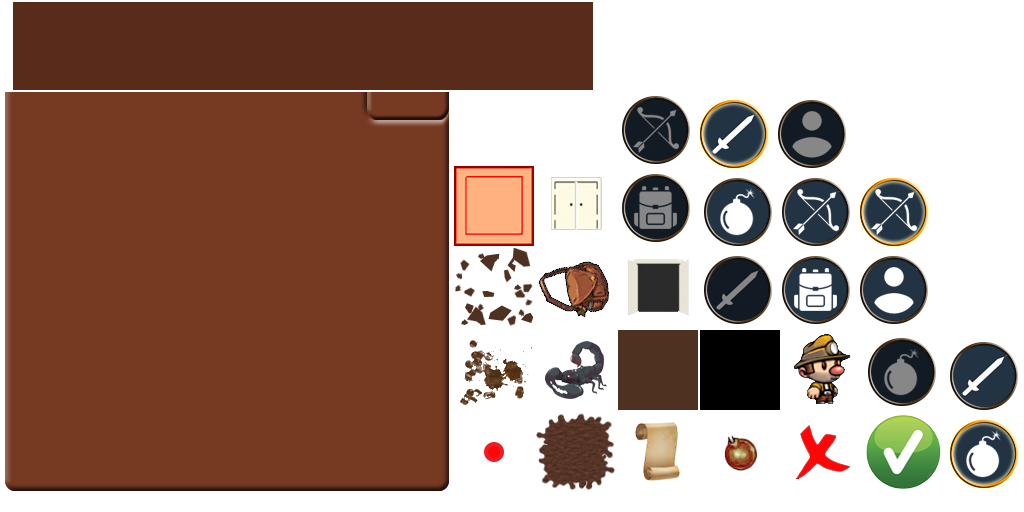
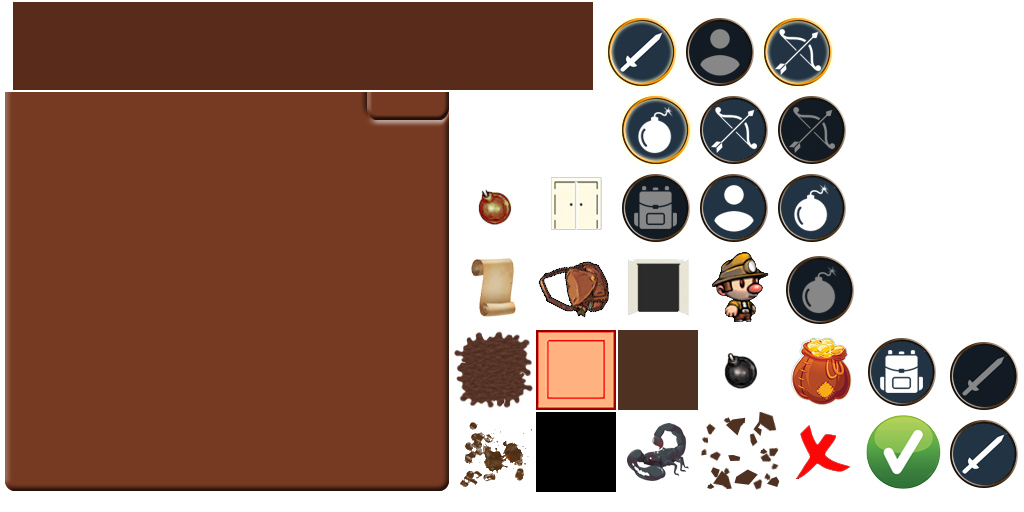
Money: Added a sprite for the inventory money image.

Changed region(s): [[0.4375, 0.0312, 1.0, 0.9688]]

diff --git a/core/src/com/dokkaebistudio/tacticaljourney/rendering/InventoryPopinRenderer.java b/core/src/com/dokkaebistudio/tacticaljourney/rendering/InventoryPopinRenderer.java
@@ -331,7 +331,7 @@ public class InventoryPopinRenderer implements Renderer, RoomSystem {
 		
 		// 1.2 - Money
 		Table moneyTable = PoolableTable.create();
-		Image moneyImage = PoolableImage.create(Assets.getTexture(Assets.money_item));
+		Image moneyImage = PoolableImage.create(Assets.getTexture(Assets.inventory_money));
 		moneyTable.add(moneyImage);
 		Label money = PoolableLabel.create("[GOLD]" + walletCompo.getAmount(), PopinService.hudStyle());
 		moneyTable.add(money);

diff --git a/core/src/com/dokkaebistudio/tacticaljourney/Assets.java b/core/src/com/dokkaebistudio/tacticaljourney/Assets.java
@@ -87,6 +87,7 @@ public class Assets {
 	public static final String btn_profile_pushed = "btn-profile-pushed";
 	
 	public static final String inventory_background = "hud_inventory_background";
+	public static final String inventory_money = "hud_money";
 	public static final String inventory_slot = "hud_inventory_slot";
 	public static final String inventory_slot_disabled = "hud_inventory_slot_disabled";
 	public static final String btn_inventory = "btn-inventory";
